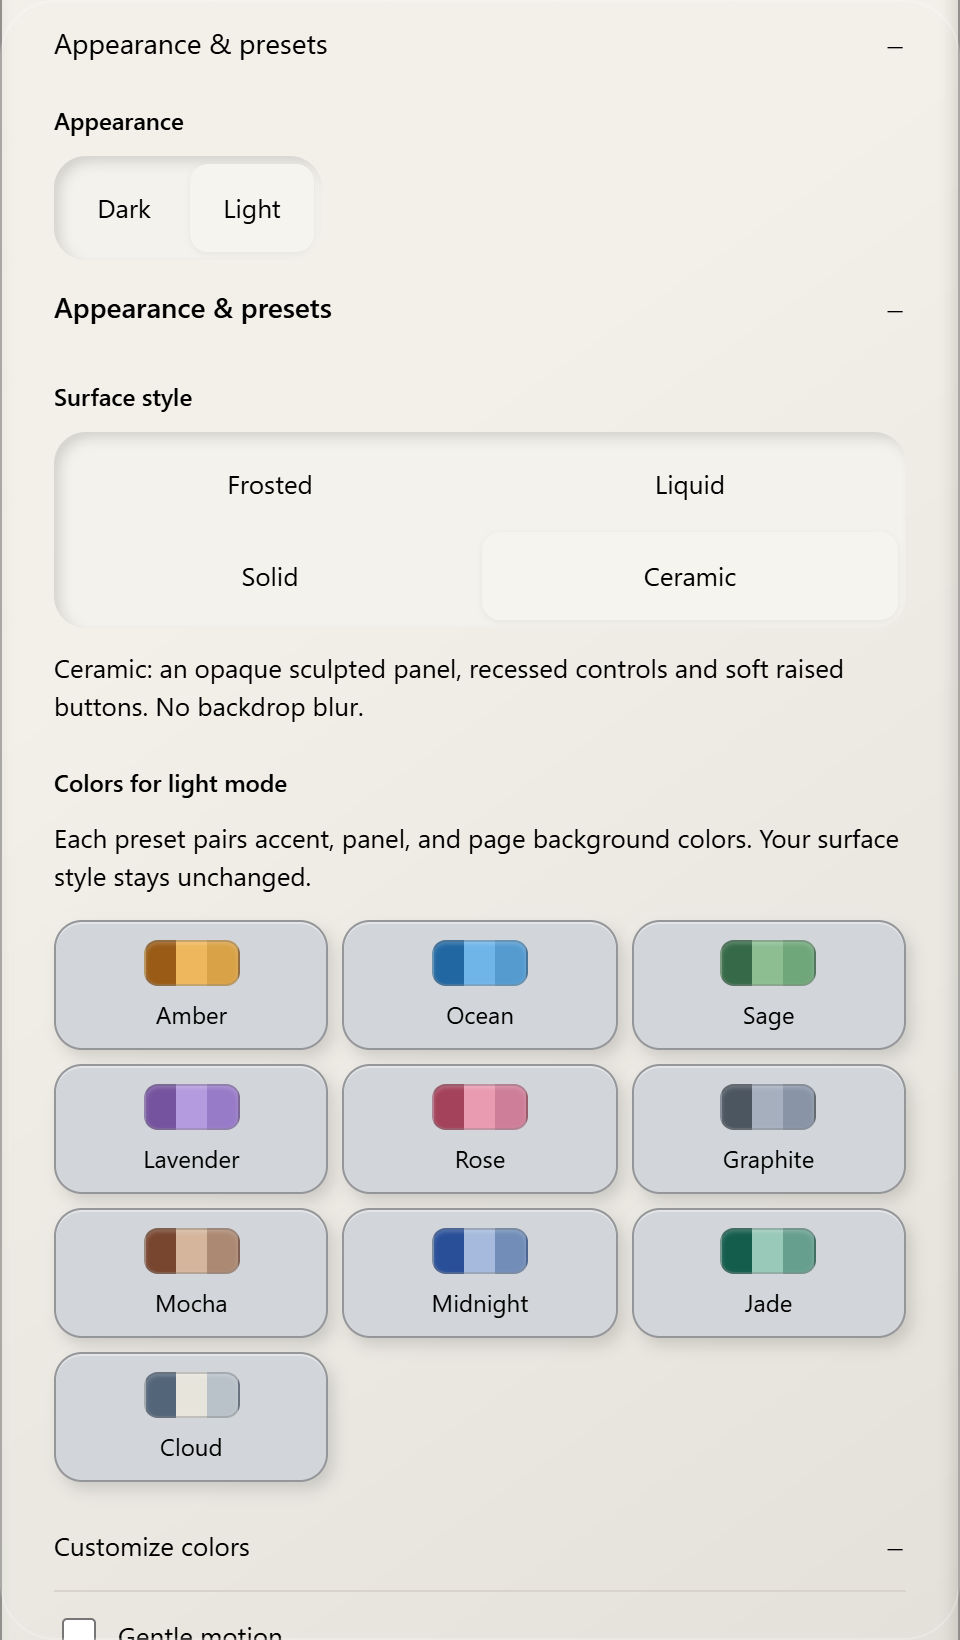
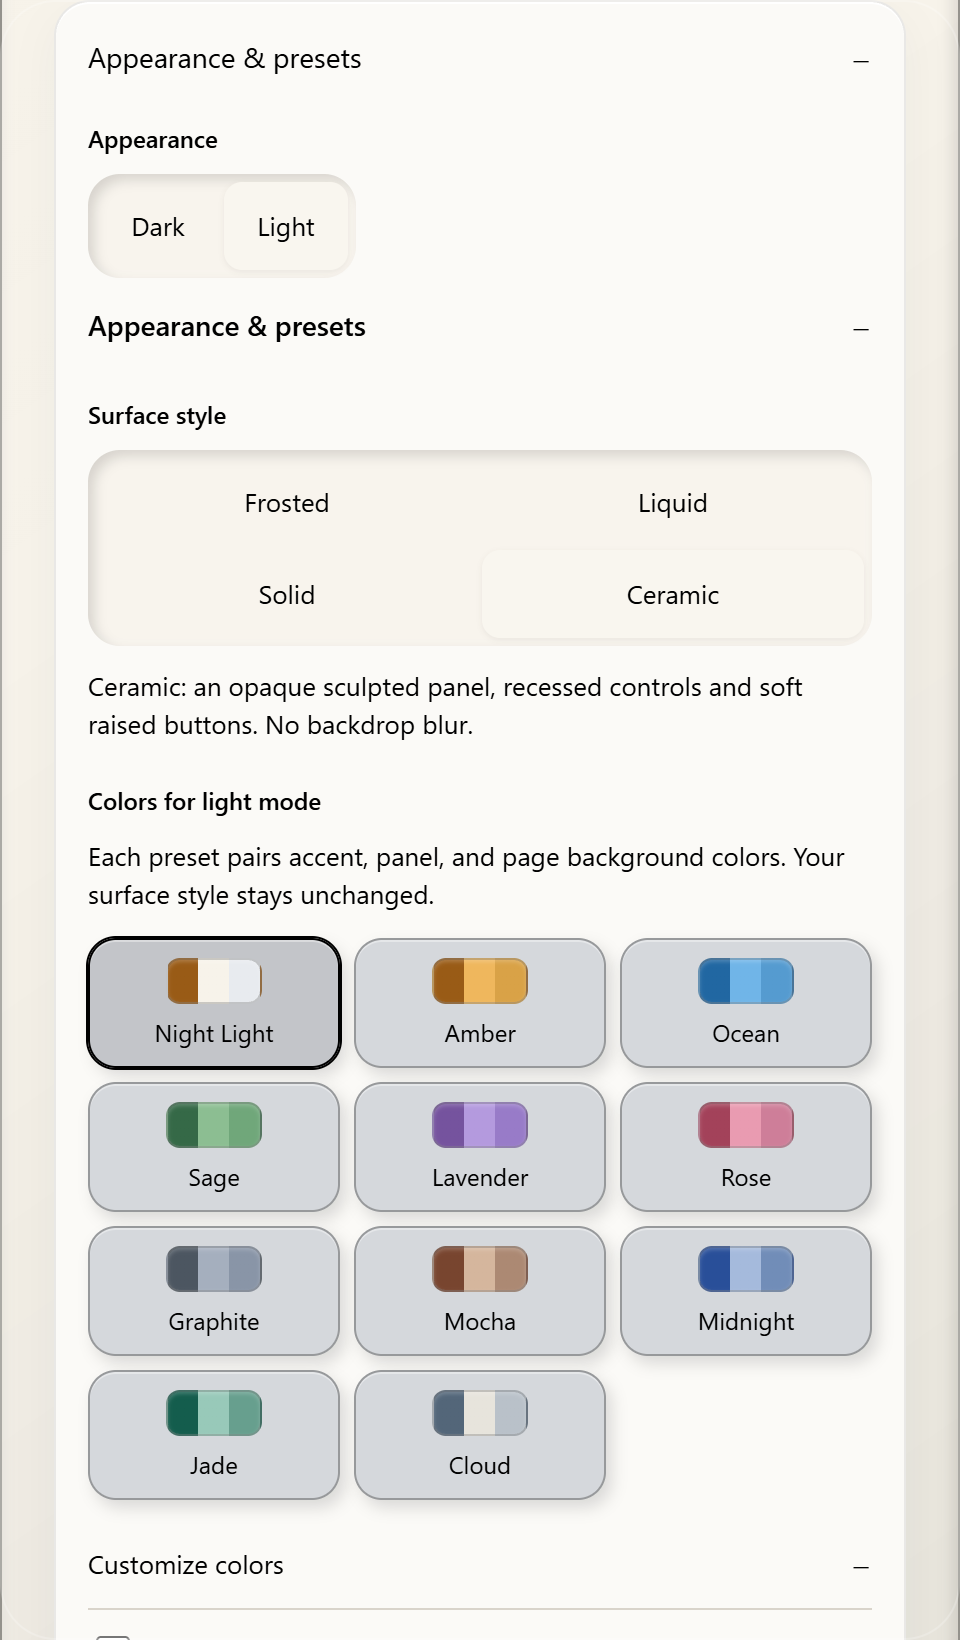
docs: show Night Light signature interface (#2)

diff --git a/README.md b/README.md
@@ -27,7 +27,7 @@ Use Manual for direct adjustments. Hold to compare original colors, pause Smart 
 
 ### Make it yours
 
-Choose light or dark appearance; Frosted, Liquid, Solid, or Ceramic surfaces; and individual presets for accent, panel, and background colors. Light and dark keep separate preferences. Liquid is a CSS treatment, not Apple's native Liquid Glass.
+The default dark appearance is Night Light's charcoal-and-amber signature, with a warm ceramic companion for light mode. You can still choose Frosted, Liquid, Solid, or Ceramic surfaces and individual presets for accent, panel, and background colors. Light and dark keep separate preferences. Liquid is a CSS treatment, not Apple's native Liquid Glass.
 
 <table>
 <tr><th>Smart Comfort</th><th>Appearance</th></tr>
